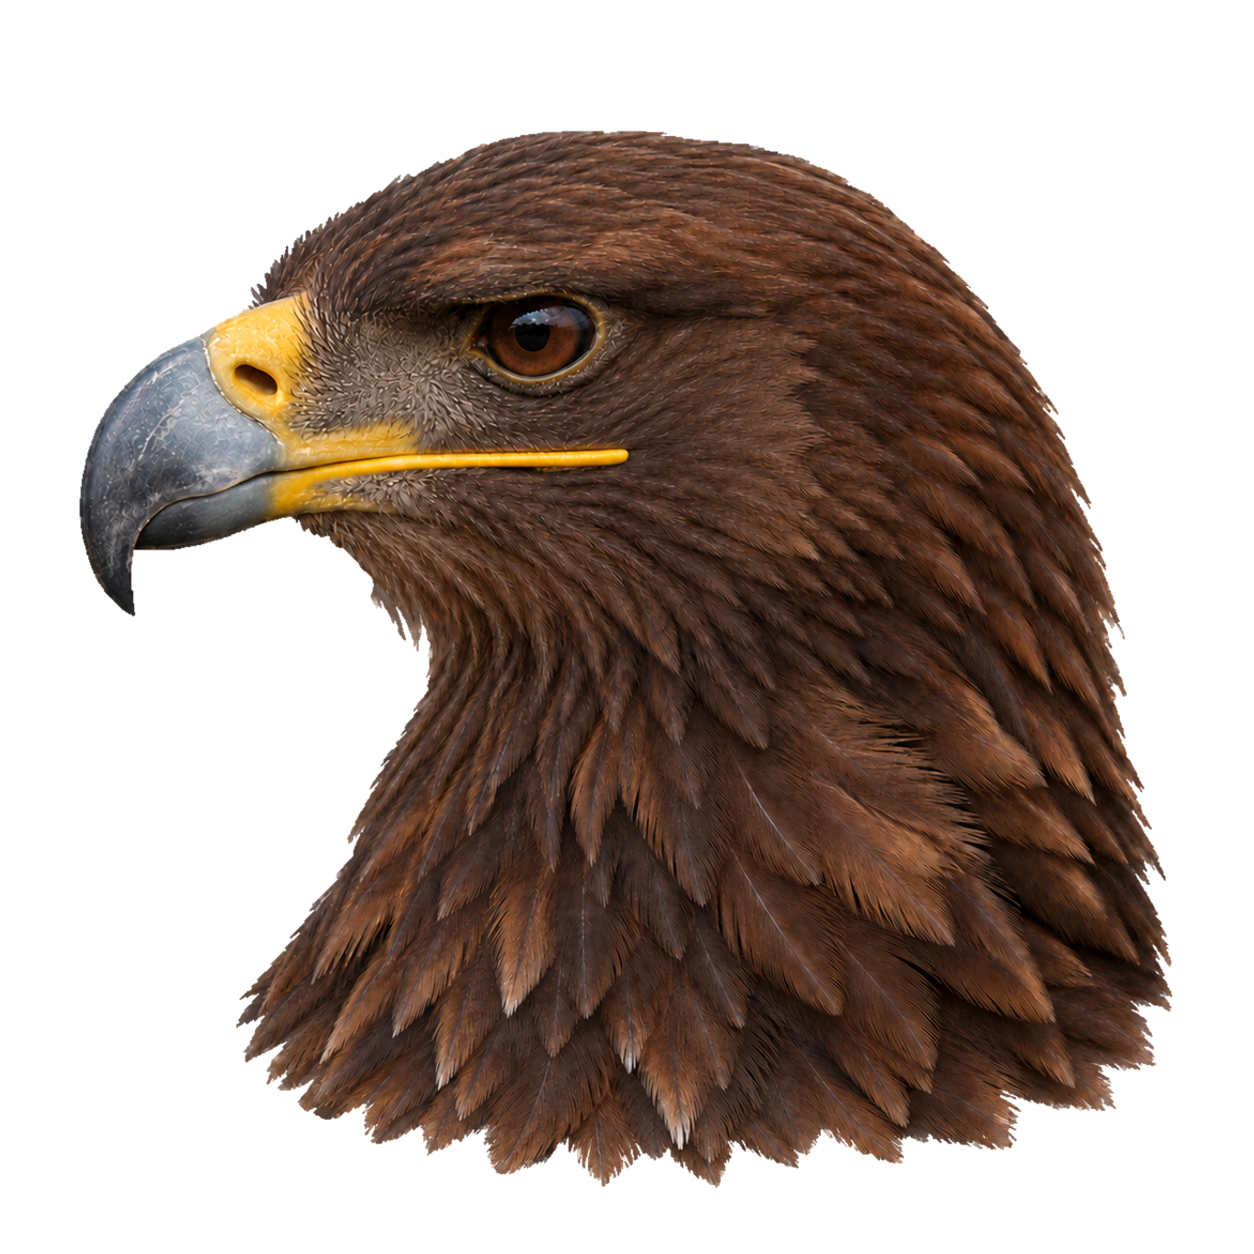
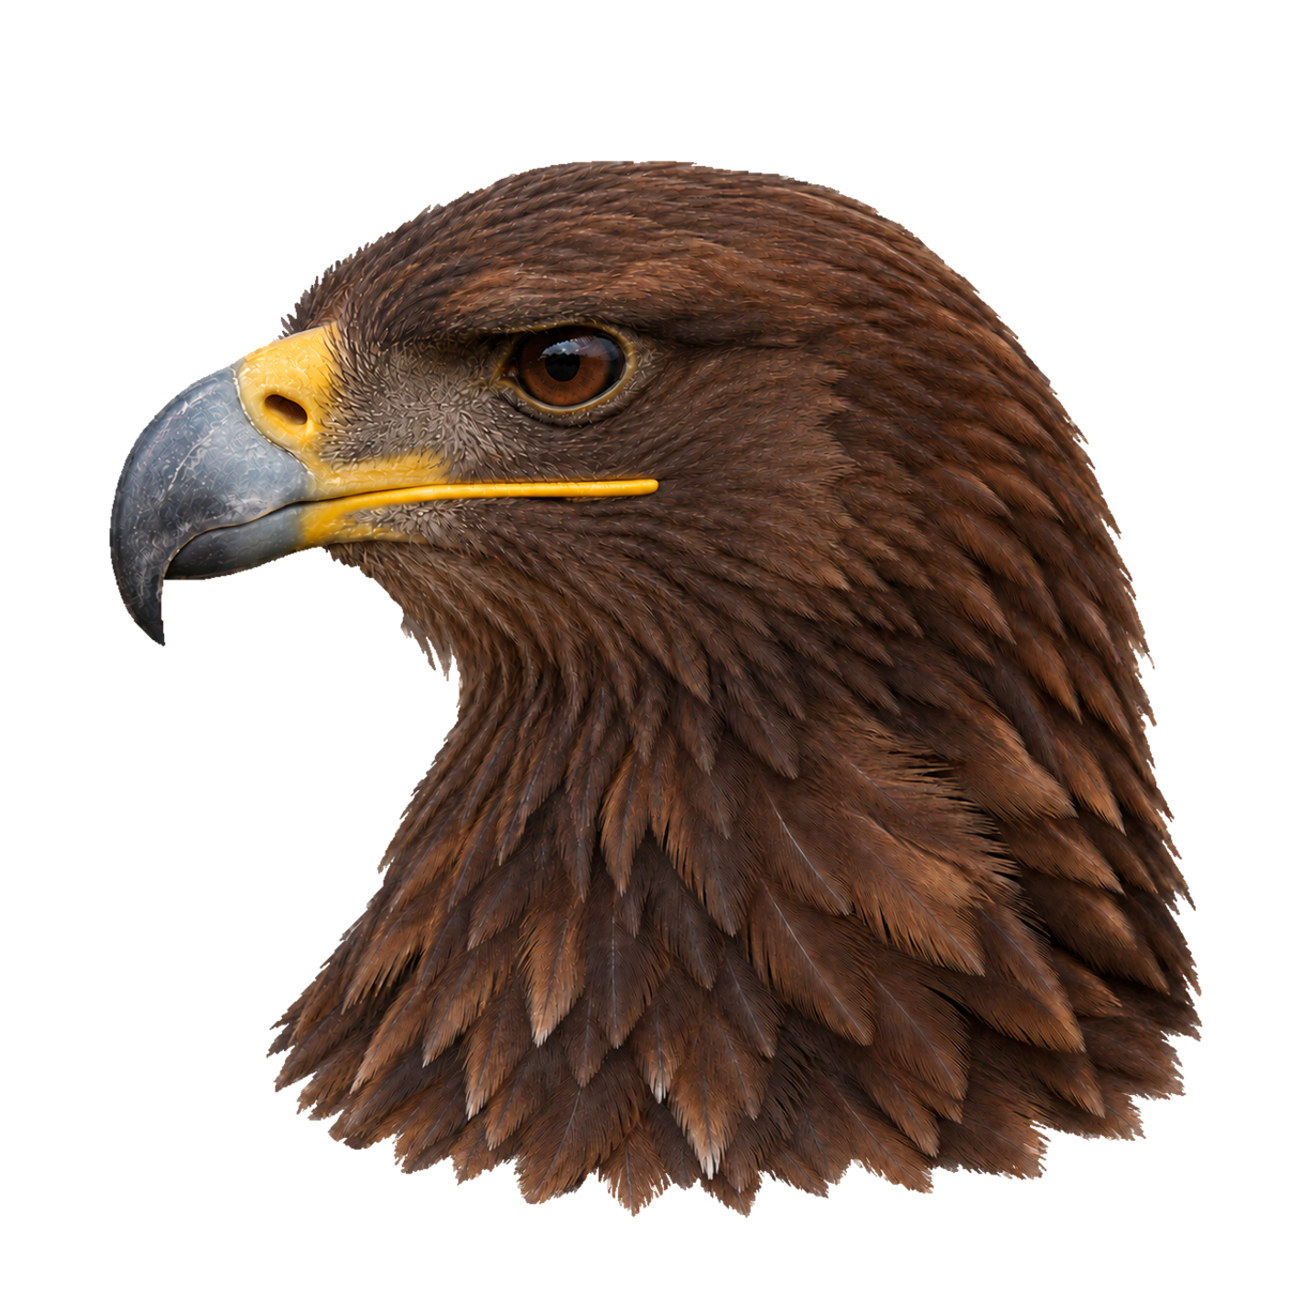
Frame the portraits in the files instead of per species in the rows
The species rows scaled eleven portraits with their own `transform` and
`background-size`, so the same art was a different size in every list it
appeared in. The frame now sits in the PNG: the canvas is cropped where
the head sat too small in its box and padded where it sat too large, and
`app/species-row.css` and `app/atlas.css` no longer name a species. The
Baumfalke portrait moves 90 px down onto the centre line the others share.

Claude-Session: https://claude.ai/code/session_01CEZuapL9hqqf5RqeBmjThp

Changed region(s): [[0.0622, 0.0933, 0.933, 0.9641]]

diff --git a/app/atlas.css b/app/atlas.css
@@ -135,33 +135,6 @@ button.color-dot:not(:disabled) {
   --icon-swap-dur: 350ms;
   --icon-swap-start-scale: 0.965;
 }
-.own-portrait[data-species='sperber'] {
-  background-size: 87% auto;
-}
-.own-portrait[data-species='gerfalke'] {
-  background-size: 114% auto;
-}
-.own-portrait[data-species='steppenadler'] {
-  background-size: 95.4% auto;
-}
-.own-portrait[data-species='maeusebussard'],
-.own-portrait[data-species='rotschwanzbussard'],
-.own-portrait[data-species='fischadler'] {
-  background-size: 105% auto;
-}
-.own-portrait[data-species='kaiseradler'] {
-  background-size: 106% auto;
-}
-.own-portrait[data-species='habichtsadler'],
-.own-portrait[data-species='iberienadler'] {
-  background-size: 104% auto;
-}
-.own-portrait[data-species='baumfalke'],
-.own-portrait[data-species='uhu'],
-.own-portrait[data-species='virginiauhu'],
-.own-portrait[data-species='harpyie'] {
-  background-size: 107% auto;
-}
 /* Duotone motifs use the main colour. Unlayered component rules may override it. */
 :where(svg[data-icon-weight='duotone']) {
   color: var(--main-color);

diff --git a/app/species-row.css b/app/species-row.css
@@ -38,22 +38,6 @@
   height: var(--species-row-portrait);
   object-fit: contain;
 }
-/* Optical artwork corrections, shared by rail, mobile sheet and inline rows.
- * Compare the cranium, not the crest or the full neck silhouette. */
-.species-row-portrait[src*='/portrait-kronenadler-'],
-.species-row-sprite[data-species='kronenadler'],
-.species-row-portrait[src*='/portrait-schwarzmilan-'],
-.species-row-sprite[data-species='schwarzmilan'] {
-  transform: scale(1.08);
-}
-.species-row-portrait[src*='/portrait-aguja-'],
-.species-row-sprite[data-species='aguja'] {
-  transform: scale(1.1);
-}
-.species-row-portrait[src*='/portrait-bartgeier-'],
-.species-row-sprite[data-species='bartgeier'] {
-  transform: scale(1.12);
-}
 /* A library row may truncate its last child; species names wrap and hyphenate
  * instead, because a clipped German compound is unreadable. */
 .species-row-name,
